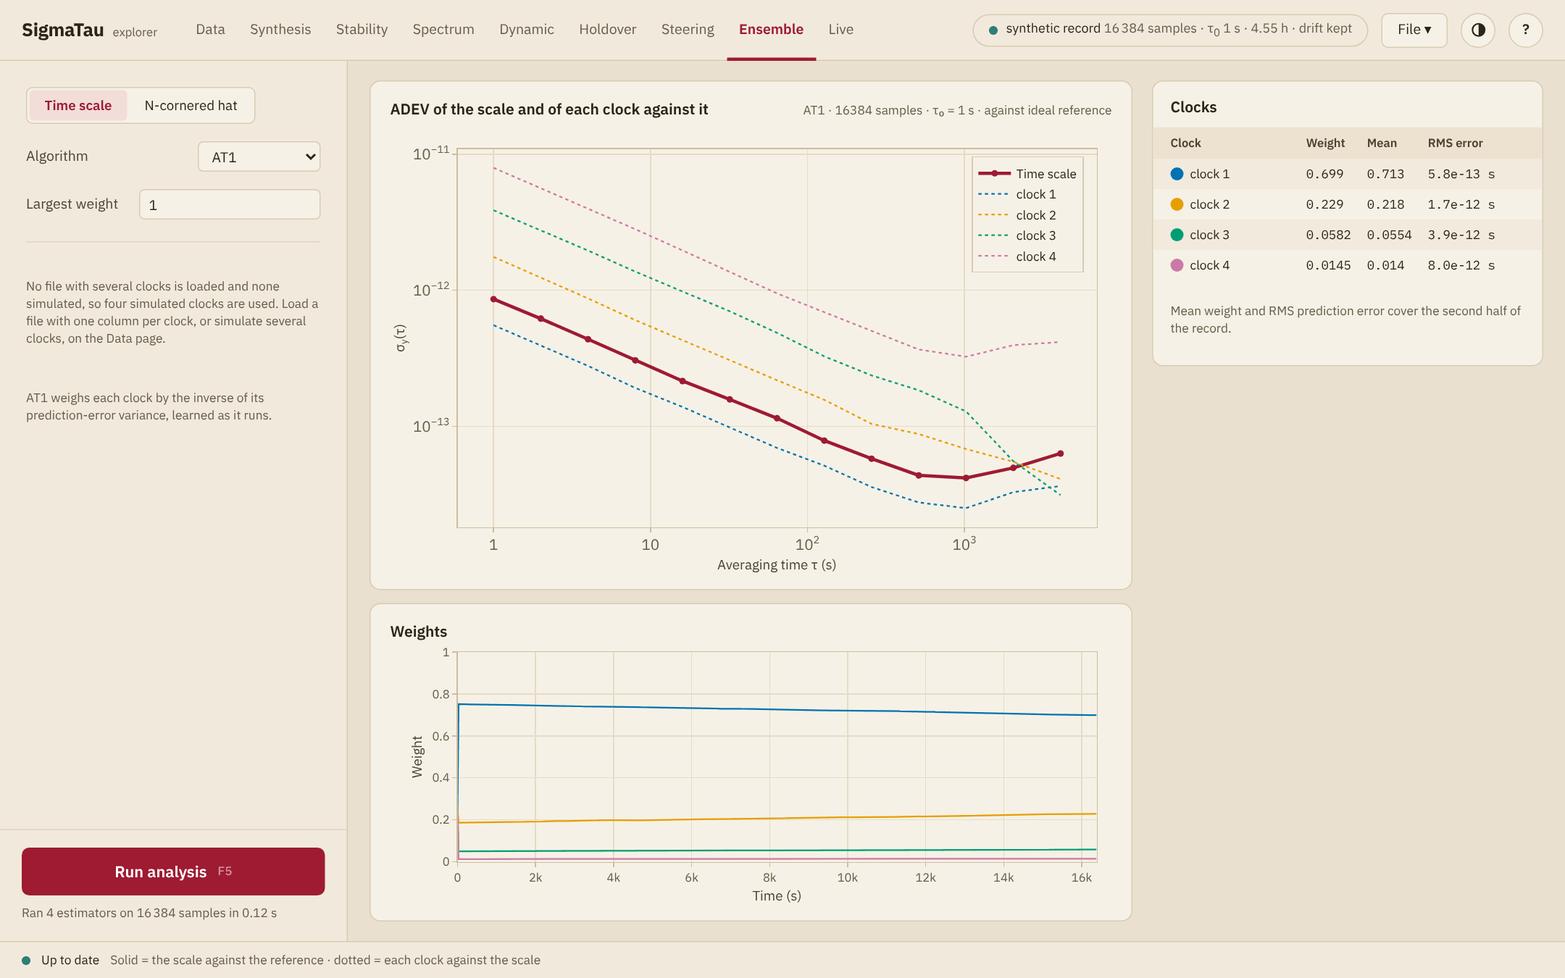
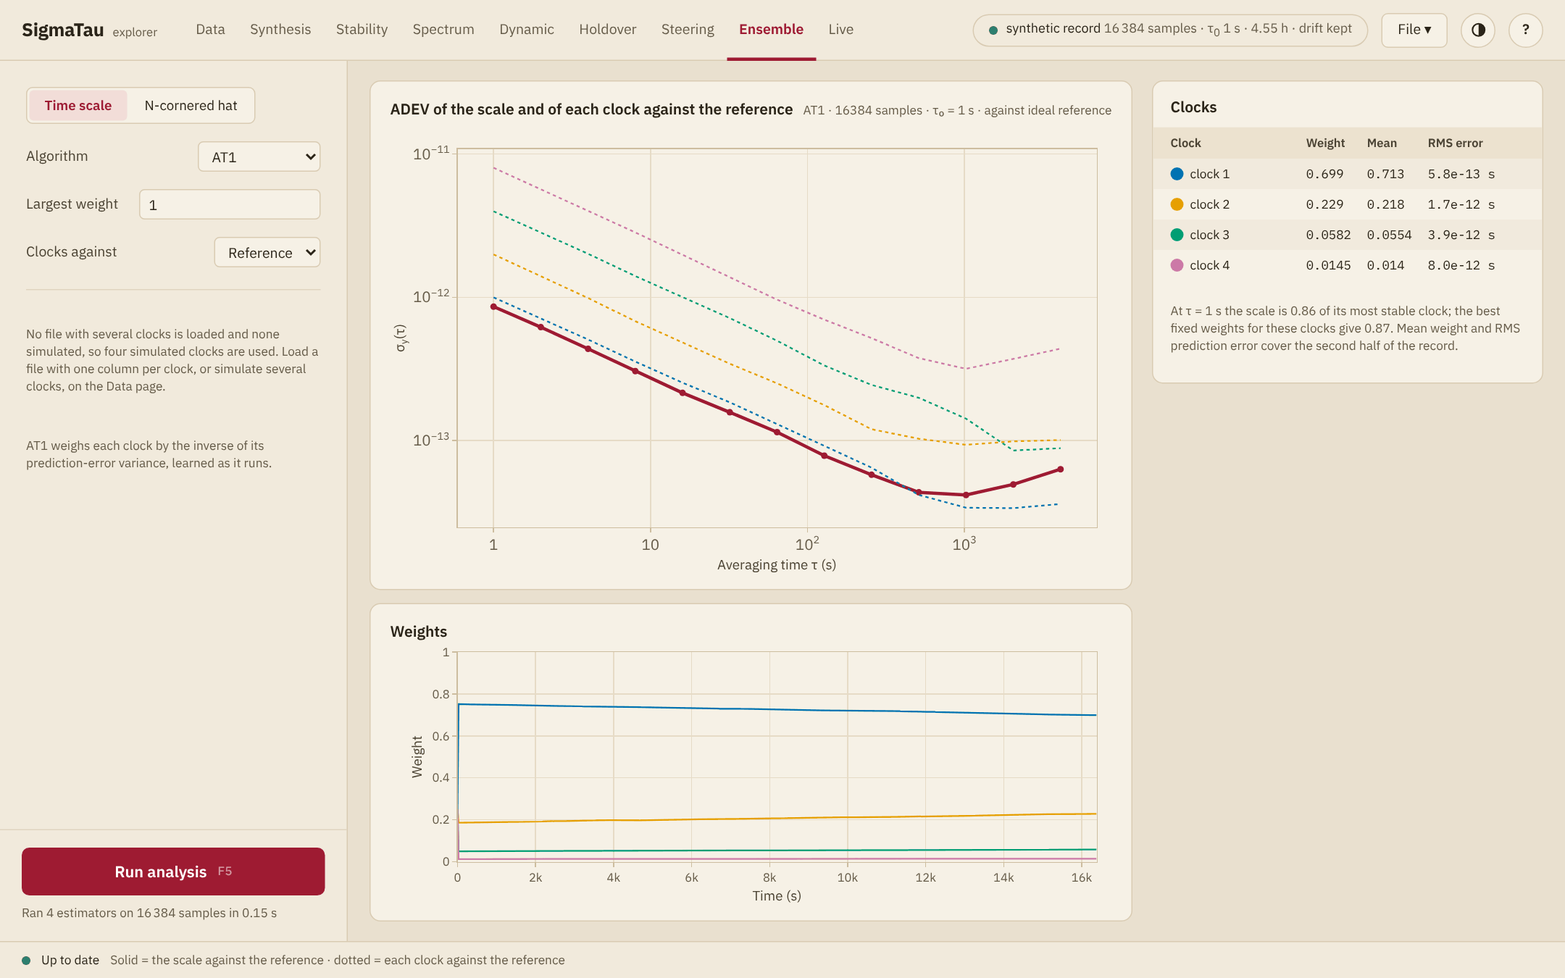
Ensemble page and timescale JSON: each clock against the reference, beside the scale (#375)
The Ensemble plot drew each clock against the scale and never the clock itself. A clock against the scale has its own share of the scale taken out: with inverse-variance weights the scale lies at √w of a clock of weight w and the clock against the scale at √(1 − w), so the line of a clock with more than half of the weight lay below the scale, and the scale looked less stable than its best clock when it was at the optimum.

sigmatau timescale --format json gains adev.readings, the Allan deviation of each clock as read, against the reference. The Ensemble page gains Clocks against (Reference or Scale): Reference for simulated clocks, whose reference is ideal, and Scale for the clocks of a file, as before. For simulated clocks the note under the table gives the scale as a fraction of its most stable clock at the shortest τ, beside what the best fixed weights give (σ⁻² = Σ σᵢ⁻², Weiss and Weissert (1991), Eq. (4) and Appendix A).

diff --git a/app/web/ui/js/help-content.js b/app/web/ui/js/help-content.js
@@ -387,7 +387,7 @@ export const TOPICS = [
   { id: "ensemble", nav: "Ensemble", web: "https://ianlap.github.io/SigmaTau.jl/dev/explorer/ensemble/", sections: [
     { id: "", level: 1, title: "Ensemble", html: [
       "<h1>Ensemble</h1>",
-      "<p>The Ensemble page works on a group of clocks that were measured against one reference, in two views. <b>Time scale</b> forms a time scale from them: a weighted combination of the clocks that is meant to be more stable than any one of them. It shows the stability of the scale, the stability of each clock against it and the weight of each clock. <b>N-cornered hat</b> separates the stability of each clock from the comparisons, without a scale (<a href=\"#help/ensemble/The-N-cornered-hat\">The N-cornered hat</a>).</p>",
+      "<p>The Ensemble page works on a group of clocks that were measured against one reference, in two views. <b>Time scale</b> forms a time scale from them: a weighted combination of the clocks that is meant to be more stable than any one of them. It shows the stability of the scale, the stability of each clock beside it and the weight of each clock. <b>N-cornered hat</b> separates the stability of each clock from the comparisons, without a scale (<a href=\"#help/ensemble/The-N-cornered-hat\">The N-cornered hat</a>).</p>",
     ] },
     { id: "The-clocks", level: 2, title: "The clocks", html: [
       "<h2>The clocks</h2>",
@@ -400,7 +400,7 @@ export const TOPICS = [
     { id: "Settings", level: 2, title: "Settings", html: [
       "<h2>Settings</h2>",
       "<p>These are the settings of the <b>Time scale</b> view.</p>",
-      "<table><thead><tr><th>Setting</th><th>Algorithms</th><th>Effect</th></tr></thead><tbody><tr><td><b>Algorithm</b></td><td></td><td>One of the six below</td></tr><tr><td><b>Pivot clock</b></td><td>Greenhall, Jones–Tryon, Stein</td><td>The clock at which the scale is read</td></tr><tr><td><b>Largest weight</b></td><td>AT1, AT2, Stein</td><td>The largest weight one clock may have, from <span class=\"math\">1/<i>k</i></span> for <span class=\"math\"><i>k</i></span> clocks to 1, which is no limit</td></tr><tr><td><b>Frequency steps</b></td><td>AT2</td><td><b>Off</b>, <b>Best</b> or <b>Real</b>: whether the scale looks for frequency steps of a clock, and what it does on finding one</td></tr><tr><td><b>Flicker states</b></td><td>Greenhall, Jones–Tryon</td><td><b>Off</b> or <b>On</b>: whether the model of each clock keeps its flicker FM and flicker PM</td></tr></tbody></table>",
+      "<table><thead><tr><th>Setting</th><th>Algorithms</th><th>Effect</th></tr></thead><tbody><tr><td><b>Algorithm</b></td><td></td><td>One of the six below</td></tr><tr><td><b>Pivot clock</b></td><td>Greenhall, Jones–Tryon, Stein</td><td>The clock at which the scale is read</td></tr><tr><td><b>Largest weight</b></td><td>AT1, AT2, Stein</td><td>The largest weight one clock may have, from <span class=\"math\">1/<i>k</i></span> for <span class=\"math\"><i>k</i></span> clocks to 1, which is no limit</td></tr><tr><td><b>Frequency steps</b></td><td>AT2</td><td><b>Off</b>, <b>Best</b> or <b>Real</b>: whether the scale looks for frequency steps of a clock, and what it does on finding one</td></tr><tr><td><b>Flicker states</b></td><td>Greenhall, Jones–Tryon</td><td><b>Off</b> or <b>On</b>: whether the model of each clock keeps its flicker FM and flicker PM</td></tr><tr><td><b>Clocks against</b></td><td></td><td><b>Reference</b> or <b>Scale</b>: what the curve of each clock is taken against (<a href=\"#help/ensemble/What-is-shown\">What is shown</a>)</td></tr></tbody></table>",
       "<table><thead><tr><th>Algorithm</th><th>Scale</th></tr></thead><tbody><tr><td><b>AT1</b></td><td>Weighs each clock by the inverse of the variance of its prediction error, which the scale estimates as it runs (<a href=\"https://ianlap.github.io/SigmaTau.jl/dev/bibliography/#weiss-weissert-1991-at2\" target=\"_blank\" rel=\"noopener\">Weiss and Weissert (1991)</a>)</td></tr><tr><td><b>AT2</b></td><td>AT1 with the frequency of each clock followed by a Kalman filter, from the same paper. With <b>Frequency steps</b>, a clock whose frequency steps is left out for a time. <b>Best</b> forms the scale again from the step on, and <b>Real</b> keeps the values already issued and corrects those that follow</td></tr><tr><td><b>EWFA</b></td><td>Weighs every clock the same (<a href=\"https://ianlap.github.io/SigmaTau.jl/dev/bibliography/#kettering-2023-clock-ensemble\" target=\"_blank\" rel=\"noopener\">Kettering (2023), §3.1</a>)</td></tr><tr><td><b>Greenhall</b></td><td>One Kalman filter over all the clocks, with the covariance reduction of <a href=\"https://ianlap.github.io/SigmaTau.jl/dev/bibliography/#greenhall-2003-jones-tryon\" target=\"_blank\" rel=\"noopener\">Greenhall (2003)</a>, read at the pivot clock</td></tr><tr><td><b>Jones–Tryon</b></td><td>The same filter without the reduction (<a href=\"https://ianlap.github.io/SigmaTau.jl/dev/bibliography/#jones-tryon-1983-estimating-time\" target=\"_blank\" rel=\"noopener\">Jones and Tryon (1983)</a>). It defines no weights</td></tr><tr><td><b>Stein</b></td><td>The scale of <a href=\"https://ianlap.github.io/SigmaTau.jl/dev/bibliography/#stein-2003-demystified\" target=\"_blank\" rel=\"noopener\">Stein (2003)</a>, in the form that <a href=\"https://ianlap.github.io/SigmaTau.jl/dev/bibliography/#levine-2012-statistical-modeling\" target=\"_blank\" rel=\"noopener\">Levine (2012)</a> describes as KAS-2: a Kalman filter on the difference of each clock from the pivot, with weights for phase, frequency and aging. The weights shown are those of the phase</td></tr></tbody></table>",
       "<p><a href=\"https://ianlap.github.io/SigmaTau.jl/dev/reference/ensemble/#SigmaTau.timescale\" target=\"_blank\" rel=\"noopener\"><code>timescale</code></a> describes each algorithm, its equations and where it departs from its source. The three Kalman scales need three or more clocks. They fit a model to each clock from the comparisons alone, as <a href=\"https://ianlap.github.io/SigmaTau.jl/dev/reference/ensemble/#SigmaTau.clock_models\" target=\"_blank\" rel=\"noopener\"><code>clock_models</code></a> does.</p>",
       "<p>The model of a clock has white FM and random-walk FM, with the PM as the noise of its readings. With <b>Flicker states</b> off, flicker PM counts as noise of the readings too, and flicker FM is not fitted. With them on, flicker FM is fitted as well, and the model keeps the flicker FM and the flicker PM it finds as <a href=\"https://ianlap.github.io/SigmaTau.jl/dev/explanation/clock_model/#Flicker-states\" target=\"_blank\" rel=\"noopener\">Markov states</a>, over the averaging times at which each matters. The levels are those that the fit finds, and on a short record it can find flicker in a clock that has none: of four simulated clocks of white and random-walk FM, 2048 samples long, one got two flicker FM states.</p>",
@@ -408,8 +408,12 @@ export const TOPICS = [
     ] },
     { id: "What-is-shown", level: 2, title: "What is shown", html: [
       "<h2>What is shown</h2>",
-      "<p>The upper plot gives the Allan deviation of the scale against the reference, as a solid line, and that of each clock against the scale, as dotted lines. The line above it names the algorithm, the number of samples, the sample interval and the reference, and says when flicker states are on.</p>",
+      "<p>The upper plot gives the Allan deviation of the scale against the reference, as a solid line, and that of each clock, as dotted lines. The line above it names the algorithm, the number of samples, the sample interval and the reference, and says when flicker states are on.</p>",
       "<p>With simulated clocks the reference is ideal, and the solid line is the stability of the scale itself. With measured clocks it holds the noise of the reference as well, and it shows the scale only where the reference is the more stable of the two.</p>",
+      "<p><b>Clocks against</b> sets what a dotted line is:</p>",
+      "<ul><li><b>Reference</b>: the clock as it was read, against the reference. The scale and the clocks are then against the same reference, and the scale compares with its clocks. This is the choice for simulated clocks, whose dotted lines are then the clocks themselves.</li><li><b>Scale</b>: the clock against the scale. This is the choice for the clocks of a file, whose reference may be less stable than they are.</li></ul>",
+      "<p>A clock against the scale is not the clock alone. The scale holds a share of the clock, its weight <span class=\"math\"><i>w</i></span>, and that share cancels in the difference. Where the weights are the inverse variances of independent clocks, the scale lies at <span class=\"math\">√<span class=\"rad\"><i>w</i></span></span> of the clock and the clock against the scale at <span class=\"math\">√<span class=\"rad\">1 − <i>w</i></span></span> of it. The line of a clock with more than half of the weight therefore lies below the scale, though the scale is the more stable of the two.</p>",
+      "<p>For simulated clocks the note under the table gives the scale as a fraction of its most stable clock at the shortest averaging time, beside the fraction that the best fixed weights would give. For independent clocks of deviations <span class=\"math\">σ<sub><i>i</i></sub></span> that is <span class=\"math\">σ<sup>−2</sup> = Σ<sub><i>i</i></sub> σ<sub><i>i</i></sub><sup>−2</sup></span> (<a href=\"https://ianlap.github.io/SigmaTau.jl/dev/bibliography/#weiss-weissert-1991-at2\" target=\"_blank\" rel=\"noopener\">Weiss and Weissert (1991), Eq. (4) and Appendix A</a>): <span class=\"math\">1/√<span class=\"rad\"><i>N</i></span></span> of a clock for <span class=\"math\"><i>N</i></span> equal clocks, and nearer 1 the more the clocks differ. Four clocks that each have four times the noise variance of the one before give 0.87.</p>",
       "<p><b>Weights</b> plots the weight of each clock against time. The table gives, for each clock:</p>",
       "<table><thead><tr><th>Column</th><th>Holds</th></tr></thead><tbody><tr><td><b>Weight</b></td><td>The weight at the end of the record</td></tr><tr><td><b>Mean</b></td><td>The mean weight over the second half of the record</td></tr><tr><td><b>RMS error</b></td><td>The rms prediction error over the second half, in seconds</td></tr><tr><td><b>White FM</b></td><td>For a Kalman scale, the white FM <span class=\"math\"><i>q</i><sub>1</sub></span> of the model fitted to the clock</td></tr></tbody></table>",
       "<p>The Jones–Tryon scale has no weights: the plot of the weights is not shown, and the two weight columns are empty.</p>",

diff --git a/app/web/ui/js/pages/ensemble.js b/app/web/ui/js/pages/ensemble.js
@@ -35,6 +35,12 @@ const ABOUT_HAT = {
 };
 // The pivot as the core takes it: 1-based, back to the first clock when out of range.
 const pivotOf = (n) => (state.ens.pivot <= n ? state.ens.pivot : 1);
+// What each clock's curve is taken against. Only the reference compares a
+// clock with the scale: a clock against the scale has its own share of the
+// scale taken out. Simulated clocks have an ideal reference, so that is the
+// default for them; a file's reference may be noisier than its clocks.
+const AGAINST = [["reference", "Reference"], ["scale", "Scale"]];
+const againstOf = (clocks) => state.ens.against ?? (clocks[0]?.source.type === "file" ? "scale" : "reference");
 // The file goes to the core as read, without the preparation of the Data page,
 // so the core's remedy for gaps (--fillgaps) has no counterpart on this page.
 const GAPS = [
@@ -147,6 +153,8 @@ export function controls() {
     ${CAPPED.has(E.algorithm) ? `<label class="opt"><span>Largest weight</span><input type="text" data-ctl="wmax" value="${h(String(E.wmax))}" inputmode="decimal"></label>` : ""}
     ${E.algorithm === "at2" ? `<label class="opt"><span>Frequency steps</span><select data-ctl="steps">${[["", "Off"], ["best", "Best"], ["real", "Real"]].map(([id, label]) =>
       `<option value="${id}" ${E.steps === id ? "selected" : ""}>${label}</option>`).join("")}</select></label>` : ""}
+    <label class="opt" title="Each clock's curve: the clock as read against the reference, which compares with the scale, or the clock against the scale"><span>Clocks against</span><select data-ctl="against">${AGAINST.map(([id, label]) =>
+      `<option value="${id}" ${againstOf(clocks) === id ? "selected" : ""}>${label}</option>`).join("")}</select></label>
     ${FLICKER.has(E.algorithm) ? `<label class="opt"><span>Flicker states</span><select data-ctl="flicker">${[["", "Off"], ["on", "On"]].map(([id, label]) =>
       `<option value="${id}" ${E.flicker === (id === "on") ? "selected" : ""}>${label}</option>`).join("")}</select></label>` : ""}
     <div class="rule"></div>
@@ -174,6 +182,7 @@ export function onControl(e) {
   if (k === "steps") update((s) => { s.ens.steps = v; });
   if (k === "flicker") update((s) => { s.ens.flicker = v === "on"; });
   if (k === "pivot") update((s) => { s.ens.pivot = Number(v); });
+  if (k === "against") update((s) => { s.ens.against = v; });
   if (k === "wmax") {
     if (Number(v) > 0 && Number(v) <= 1) update((s) => { s.ens.wmax = Number(v); });
     else { t.value = state.ens.wmax; ctx.status("error", "The largest weight is a fraction between 0 and 1."); }
@@ -213,6 +222,16 @@ function ensure() {
 }
 
 const weight = (w) => (w === null ? "–" : num(w, 3));
+
+// Against an ideal reference: the scale beside its most stable clock at the
+// shortest τ, and what the best fixed weights would give independent clocks,
+// σ⁻² = Σ σᵢ⁻² (Weiss and Weissert (1991), Eq. (4) and Appendix A); 1/√N for N equal clocks.
+function gain(r) {
+  const own = r.adev.readings.map((dev) => dev[0]).filter((v) => v > 0), best = Math.min(...own);
+  if (!own.length || !(r.adev.scale[0] > 0)) return "";
+  const bound = 1 / Math.sqrt(own.reduce((sum, v) => sum + (best / v) ** 2, 0));
+  return `At τ = ${num(r.adev.tau[0], 4)} s the scale is ${num(r.adev.scale[0] / best, 2)} of its most stable clock; the best fixed weights for these clocks give ${num(bound, 2)}. `;
+}
 
 // Without a scale the plots are hidden, and its table and the line that describes it go.
 function showEmpty(text) {
@@ -272,7 +291,8 @@ export function refresh() {
   if (!r) return showEmpty(!state.core.ok ? "No analysis core. Start the explorer with serve.py." : hat ? "Separating the clocks…" : "Forming the time scale…");
   showEmpty("");
   if (hat) return refreshHat(r, req);
-  root.querySelector("[data-ref=title]").textContent = "ADEV of the scale and of each clock against it";
+  const against = againstOf(clocks), ideal = clocks[0]?.source.type !== "file";
+  root.querySelector("[data-ref=title]").textContent = `ADEV of the scale and of each clock against ${against === "scale" ? "it" : "the reference"}`;
   const names = r.clocks.map((n, i) => clocks[i]?.name ?? n);
   const color = (i) => seriesColor(clocks[i]?.slot ?? i);
   // Jones–Tryon has no weights: its plot goes and the ADEV plot takes the room.
@@ -292,14 +312,14 @@ export function refresh() {
     <div class="tbl${fitted ? " fitted" : ""}"><div class="tbl-row tbl-head"><span>Clock</span><span>Weight</span><span>Mean</span><span>RMS error</span>${fitted ? "<span>White FM</span>" : ""}</div>
     ${names.map((n, i) => `<div class="tbl-row tbl-body"><span class="ens-name"><span class="clock-dot" style="background:${color(i)}"></span>${h(n)}</span>
       <span>${weight(r.weight[i])}</span><span>${weight(r.weight_mean[i])}</span><span>${sci(r.error_rms[i], 2)} s</span>${fitted ? `<span>${sci(fitted[i].q1, 2)}</span>` : ""}</div>`).join("")}</div>
-    <p class="muted small ens-note">${unresolved}${flicker}${weighted ? "" : "The Jones–Tryon scale has no per-clock weights. "}Mean weight and RMS prediction error cover the second half of the record.</p>`;
+    <p class="muted small ens-note">${ideal ? gain(r) : ""}${unresolved}${flicker}${weighted ? "" : "The Jones–Tryon scale has no per-clock weights. "}Mean weight and RMS prediction error cover the second half of the record.</p>`;
   if (!Plotly) return;
   const scale = css("--accent");
   Plotly.react(root.querySelector("[data-ref=adev]"), [
     { x: r.adev.tau, y: r.adev.scale, name: "Time scale", mode: "lines+markers", line: { color: scale, width: 3 }, marker: { color: scale, size: 6 },
       hovertemplate: "<b>Time scale</b><br>τ = %{x:.4g} s<br>σ = %{y:.3e}<extra></extra>" },
-    ...r.adev.clocks.map((dev, i) => ({ x: r.adev.tau, y: dev, name: names[i], mode: "lines", line: { color: color(i), width: 1.5, dash: "dot" },
-      hovertemplate: `<b>${h(names[i])}</b> − scale<br>τ = %{x:.4g} s<br>σ = %{y:.3e}<extra></extra>` })),
+    ...r.adev[against === "scale" ? "clocks" : "readings"].map((dev, i) => ({ x: r.adev.tau, y: dev, name: names[i], mode: "lines", line: { color: color(i), width: 1.5, dash: "dot" },
+      hovertemplate: `<b>${h(names[i])}</b>${against === "scale" ? " − scale" : ""}<br>τ = %{x:.4g} s<br>σ = %{y:.3e}<extra></extra>` })),
   ], { ...baseLayout(), xaxis: logAxis("Averaging time τ (s)"), yaxis: logAxis("σ<sub>y</sub>(τ)"), showlegend: false, uirevision: "ens" }, CONFIG);
   if (relaid) Plotly.Plots.resize(root.querySelector("[data-ref=adev]"));
   const s = r.series;
@@ -311,5 +331,5 @@ export function refresh() {
 
 export function hint() {
   return state.ens.view === "hat" ? "Solid = each clock, separated · dotted = the pairs as measured · bars = the confidence interval"
-    : "Solid = the scale against the reference · dotted = each clock against the scale";
+    : `Solid = the scale against the reference · dotted = each clock against the ${againstOf(fileClocks())}`;
 }

diff --git a/app/web/ui/js/state.js b/app/web/ui/js/state.js
@@ -30,10 +30,11 @@ export const state = {
   compareTau: null,        // τ of the "Compare at τ" table
   // Spectrum page (display settings, applied without a run)
   spec: { carrier: 10e6, carrierText: "10e6", phase: "L", avg: "log", guides: true },
-  // Ensemble page: the view ("scale" | "hat"), the time scale settings, those of the hat (deviation,
+  // Ensemble page: the view ("scale" | "hat"), the time scale settings, what each clock's curve is
+  // against ("reference" | "scale"; null = the page's choice), the settings of the hat (deviation,
   // method, whether the file's reference counts as a clock, whether three columns hold the pairs)
   // and the last result ({ key, ts } or { key, hat })
-  ens: { view: "scale", algorithm: "at1", wmax: 1, pivot: 1, steps: "", flicker: false,
+  ens: { view: "scale", algorithm: "at1", wmax: 1, pivot: 1, steps: "", flicker: false, against: null,
          hat: { dev: "adev", method: "hat", reference: true, pairs: false }, result: null, error: null },
   // Dynamic page: estimator, window = record / frac, map or 3D waterfall
   dyn: { dev: "dadev", frac: 8, view: "map", cell: null, sliceTau: null },  // sliceTau: τ of the multi-clock comparison

diff --git a/docs/src/explorer/ensemble.md b/docs/src/explorer/ensemble.md
@@ -4,7 +4,7 @@ The Ensemble page works on a group of clocks that were measured against
 one reference, in two views. **Time scale** forms a time scale from them: a
 weighted combination of the clocks that is meant to be more stable than any
 one of them. It shows the stability of the scale, the stability of each
-clock against it and the weight of each clock. **N-cornered hat** separates
+clock beside it and the weight of each clock. **N-cornered hat** separates
 the stability of each clock from the comparisons, without a scale
 ([The N-cornered hat](ensemble.md#The-N-cornered-hat)).
 
@@ -50,6 +50,7 @@ These are the settings of the **Time scale** view.
 | **Largest weight** | AT1, AT2, Stein | The largest weight one clock may have, from ``1/k`` for ``k`` clocks to 1, which is no limit |
 | **Frequency steps** | AT2 | **Off**, **Best** or **Real**: whether the scale looks for frequency steps of a clock, and what it does on finding one |
 | **Flicker states** | Greenhall, Jones–Tryon | **Off** or **On**: whether the model of each clock keeps its flicker FM and flicker PM |
+| **Clocks against** | | **Reference** or **Scale**: what the curve of each clock is taken against ([What is shown](ensemble.md#What-is-shown)) |
 
 | Algorithm | Scale |
 |:----------|:------|
@@ -82,15 +83,40 @@ setting change. It needs no run.
 ## What is shown
 
 The upper plot gives the Allan deviation of the scale against the
-reference, as a solid line, and that of each clock against the scale, as
-dotted lines. The line above it names the algorithm, the number of samples,
-the sample interval and the reference, and says when flicker states are
-on.
+reference, as a solid line, and that of each clock, as dotted lines. The
+line above it names the algorithm, the number of samples, the sample
+interval and the reference, and says when flicker states are on.
 
 With simulated clocks the reference is ideal, and the solid line is the
 stability of the scale itself. With measured clocks it holds the noise of
 the reference as well, and it shows the scale only where the reference is
 the more stable of the two.
+
+**Clocks against** sets what a dotted line is:
+
+- **Reference**: the clock as it was read, against the reference. The
+  scale and the clocks are then against the same reference, and the scale
+  compares with its clocks. This is the choice for simulated clocks, whose
+  dotted lines are then the clocks themselves.
+- **Scale**: the clock against the scale. This is the choice for the
+  clocks of a file, whose reference may be less stable than they are.
+
+A clock against the scale is not the clock alone. The scale holds a share
+of the clock, its weight ``w``, and that share cancels in the difference.
+Where the weights are the inverse variances of independent clocks, the
+scale lies at ``\sqrt{w}`` of the clock and the clock against the scale at
+``\sqrt{1 - w}`` of it. The line of a clock with more than half of the
+weight therefore lies below the scale, though the scale is the more stable
+of the two.
+
+For simulated clocks the note under the table gives the scale as a
+fraction of its most stable clock at the shortest averaging time, beside
+the fraction that the best fixed weights would give. For independent
+clocks of deviations ``σ_i`` that is ``σ^{-2} = \sum_i σ_i^{-2}``
+([Weiss and Weissert (1991), Eq. (4) and Appendix A](@cite weiss-weissert-1991-at2)):
+``1/\sqrt{N}`` of a clock for ``N`` equal clocks, and nearer 1 the more
+the clocks differ. Four clocks that each have four times the noise
+variance of the one before give 0.87.
 
 **Weights** plots the weight of each clock against time. The table gives,
 for each clock:

diff --git a/docs/src/reference/cli.md b/docs/src/reference/cli.md
@@ -526,8 +526,11 @@ fields are empty, and `null` for each clock in JSON.
 sigmatau_json("timescale --synth 1024 --series 2 --format json"; only = "timescale") # hide
 ```
 
-`adev.scale` is the Allan deviation of the scale against the reference, and
-`adev.clocks` that of each clock against the scale. `series` holds the
+`adev.scale` is the Allan deviation of the scale against the reference,
+`adev.clocks` that of each clock against the scale, and `adev.readings`
+that of each clock as read, against the reference. The readings compare
+with the scale; a clock against the scale has its own share of the scale
+taken out. `series` holds the
 scale and, for each clock, its weights at the times kept. With `--flicker`
 the object has a member `flicker`, whose arrays `fm` and `pm` give the
 number of Markov states in the model of each clock. For `greenhall`,
